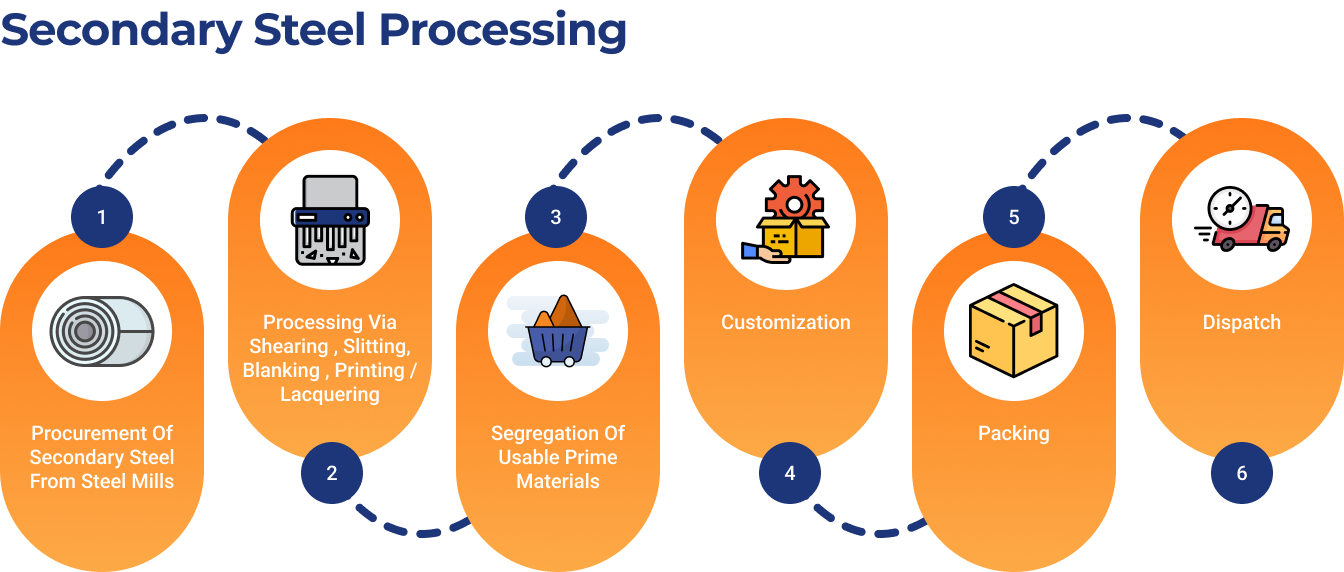
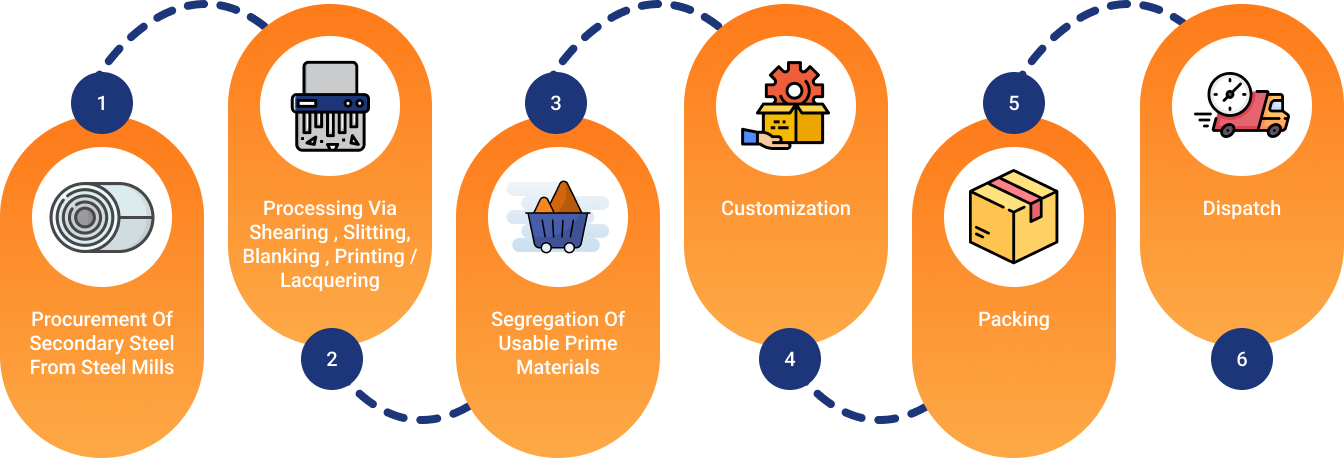
Bugs fixed

diff --git a/assets/css/style-new.css b/assets/css/style-new.css
@@ -862,7 +862,8 @@ Avighna start all section css
     box-shadow: 0px 4px 28px 0px #0000000D;
     padding: 12px;
     border-radius: 8px;
-    margin-top: 20px;
+    margin-top: 44px;
+    margin-bottom: 8px; 
 }
 .about-colled-rolled-content h4{
     font-family: 'Montserrat';
@@ -884,7 +885,8 @@ Avighna start all section css
     box-shadow: 0px 4px 28px 0px #0000000D;
     padding: 12px;
     border-radius: 8px;
-    margin-top: 20px;    
+    margin-top: 44px;
+    margin-bottom: 8px; 
 }
 .about-colled-rolled-content-grey h4{
     font-family: 'Montserrat';
@@ -1026,7 +1028,7 @@ Avighna start all section css
 }
 .galvanized-specifications-range{
     background: #F5F7FD;
-    padding: 1.25rem 48px;
+    padding: 60px 48px;
 }
 .specifications-ETP{
     background: #F5F7FD;
@@ -1139,7 +1141,7 @@ Avighna start all section css
     background-size: cover;
     background-position: bottom;
     height: 501px;
-    padding: 105px 36px;
+    padding: 74px 36px;
 }
 .cold-rolled-applications{
     margin-bottom: 6.25rem;
@@ -1187,6 +1189,14 @@ Avighna start all section css
     background-size: contain;
     /* margin-bottom: 20px; */
 }
+.benefits-electrolytic-tinplate-sheet-metal{
+    background: url(../images/galvanized/benefits-galvanized-sheet-metal-main.png) no-repeat;
+    width: 100%;
+    height: 100%;
+    padding: 48px 53px 32px 48px;
+    background-size: contain;
+    /* margin-bottom: 20px; */
+}
 .benefits-galvanized-sheet-metal-content{
     position: relative;
     display: flex;
@@ -1210,8 +1220,7 @@ Avighna start all section css
     left: 3%;
 }
 .BIS-standards-tinplate{
-    margin-bottom: -13px;
-    margin-top: -10px;
+    margin-top: 15px;
 }
 .specifications-ETP-content{
     background: var(--white);
@@ -1467,12 +1476,13 @@ Avighna start all section css
     margin: 50px 24px;
 }
 #processing {
-    padding: 40px 36px 39px;
+    padding: 40px 48px 39px;
     background: #F5F7FD;
 }
 .processing-wrap img {
     width: 100%;
     max-width: 100%;
+    margin-top: 40px;
 }
 .card-wrap {
     display: flex;
@@ -1552,7 +1562,7 @@ Avighna start query new design css
     height: 487px;
     position: relative;
     /* top: 20%; */
-    left: 5%;
+    left: 32px;
     bottom: 0;
     display: inline-grid;
     align-items: baseline;

diff --git a/avighna-advantage.html b/avighna-advantage.html
@@ -60,13 +60,14 @@
                 This virtuous cycle also benefits steel manufacturers, offering them competitive pricing for scraps and secondaries instead of mere melting values. Beyond the economic advantages, this reprocessing effort reduces environmental pollution, reflecting our commitment to sustainability. It creates a mutually beneficial, win-win scenario that fosters collaboration and progress within the steel industry.</p>
         </div>
     </section>
-
     <section id="processing">
+        <div>
+            <h3 class="inner_heading-all">Secondary Steel Processing</h3>
+        </div>
         <div class="processing-wrap container-fluid">
             <img src="./assets//images/avighnaadvantage/steel-processing.png" alt="">
         </div>
     </section>
-
     <section class="avighna-etp">
         <div class="developing_end_to_end_digital_sec">
             <div class="container">
@@ -100,7 +101,6 @@
             </div>
         </div>
     </section>
-
     <section class="our-product-range-about">
         <div class="developing_main_ausiness_activities">
             <div class="container-fluid">

diff --git a/tinmill-black-plate.html b/tinmill-black-plate.html
@@ -69,7 +69,7 @@
         </section> 
         <section class="tin-mill-black-plate specifications-ETP">
             <div class="developing_main_ausiness_activities">
-                <h3 class="inner_heading-all">Specifications of TMBP</h3>
+                <h3 class="inner_heading-all" style="margin-bottom: 40px;">Specifications of TMBP</h3>
                 <div class="container-fluid">
                     <div class="row">
                         <div class="col-sm-4">
@@ -170,7 +170,7 @@
         </section>
         <section class="tin-mill-black-plate BIS-standards-tinplate galvanized-bis-standards">
             <div class="developing_main_ausiness_activities">
-                <h3 class="inner_heading-700">BIS Standards for Tinfree Steel</h3>
+                <h3 class="inner_heading-700">BIS Standards for Tin Mill Black Plate</h3>
                 <div class="container-fluid">
                     <div class="bis-standards-main-container-blue">
                         <div class="row">

diff --git a/index.html b/index.html
@@ -1398,7 +1398,7 @@
                   <button class="nav-link custom-link" id="cidtab5" data-bs-toggle="tab" data-bs-target="#ctab5" type="button" role="tab" aria-controls="ctab5" aria-selected="false"><img src="assets/images/index/cold-rolled-icon5.png" alt="">Color Coated</button>
                </li>
                <li class="nav-item" role="presentation">
-                  <button class="nav-link custom-link" id="cidtab6" data-bs-toggle="tab" data-bs-target="#ctab6" type="button" role="tab" aria-controls="ctab6" aria-selected="false"> <img src="assets/images/index/cold-rolled-icon6.png" alt="">Tinfree steal</button>
+                  <button class="nav-link custom-link" id="cidtab6" data-bs-toggle="tab" data-bs-target="#ctab6" type="button" role="tab" aria-controls="ctab6" aria-selected="false"> <img src="assets/images/index/cold-rolled-icon6.png" alt="">Tinfree steel</button>
                </li>
             </ul>
             <div class="tab-content" id="myTabContent">

diff --git a/header.html b/header.html
@@ -50,7 +50,7 @@
                                 <li><a class="dropdown-item" href="cold-rolled.html">Cold Rolled</a></li>
                                 <li><a class="dropdown-item" href="galvanized.html">Glavanized</a></li>
                                 <li><a class="dropdown-item" href="electrolytic-tinplate.html">Electrolytic Tinplate</a></li>
-                                <li><a class="dropdown-item" href="tinfree-steel.html">Tinfree Steal</a></li>
+                                <li><a class="dropdown-item" href="tinfree-steel.html">Tinfree Steel</a></li>
                                 <li><a class="dropdown-item" href="tinmill-black-plate.html">Tin Mill Black Plate</a></li>
                                 <li><a class="dropdown-item" href="color-coated.html">Color Coated</a></li>
                             </ul>

diff --git a/electrolytic-tinplate.html b/electrolytic-tinplate.html
@@ -67,7 +67,7 @@
             </div>
         </div>
     </section> 
-    <section class="advantage-ETP-steel benefits-galvanized-sheet-metal">
+    <section class="advantage-ETP-steel benefits-electrolytic-tinplate-sheet-metal">
         <div class="container-fluid">
             <div class="row">
                 <div class="col-lg-6">
@@ -85,7 +85,7 @@
     </section>
     <section class="specifications-ETP">
         <div class="developing_main_ausiness_activities">
-            <h3 class="inner_heading-all">Specifications of ETP</h3>
+            <h3 class="inner_heading-all" style="margin-bottom: 40px;">Specifications of ETP</h3>
             <div class="container-fluid">
                 <div class="row">
                     <div class="col-sm-4">

diff --git a/tinfree-steel.html b/tinfree-steel.html
@@ -69,7 +69,7 @@
         </section> 
         <section class="tin-free-steel specifications-ETP">
             <div class="developing_main_ausiness_activities">
-                <h3 class="inner_heading-all">Specifications of ETP</h3>
+                <h3 class="inner_heading-all" style="margin-bottom: 40px;">Specifications of Tin free sheet</h3>
                 <div class="container-fluid">
                     <div class="row">
                         <div class="col-sm-4">
